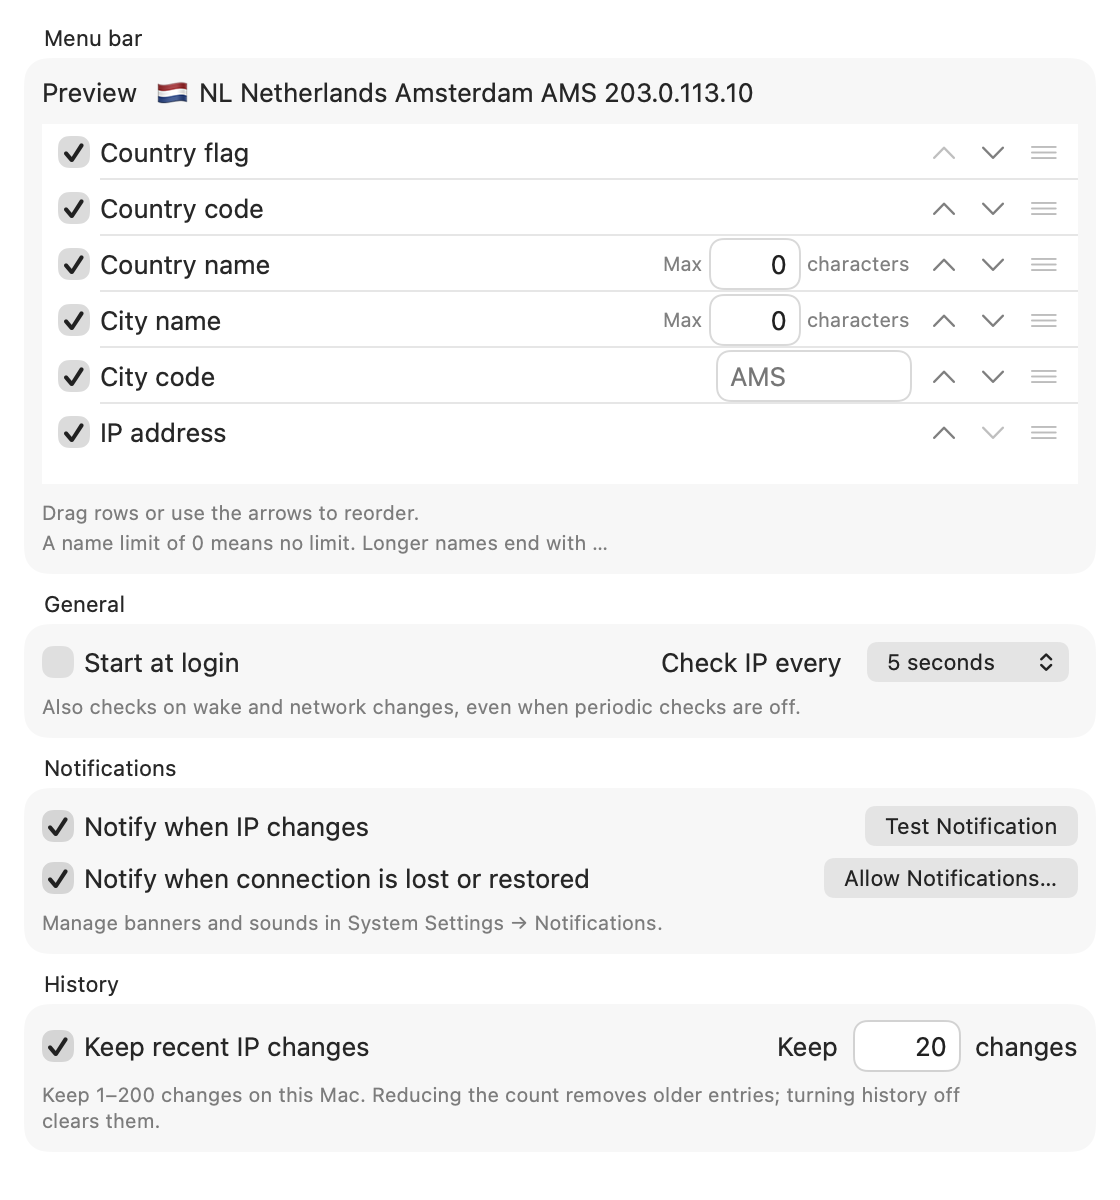
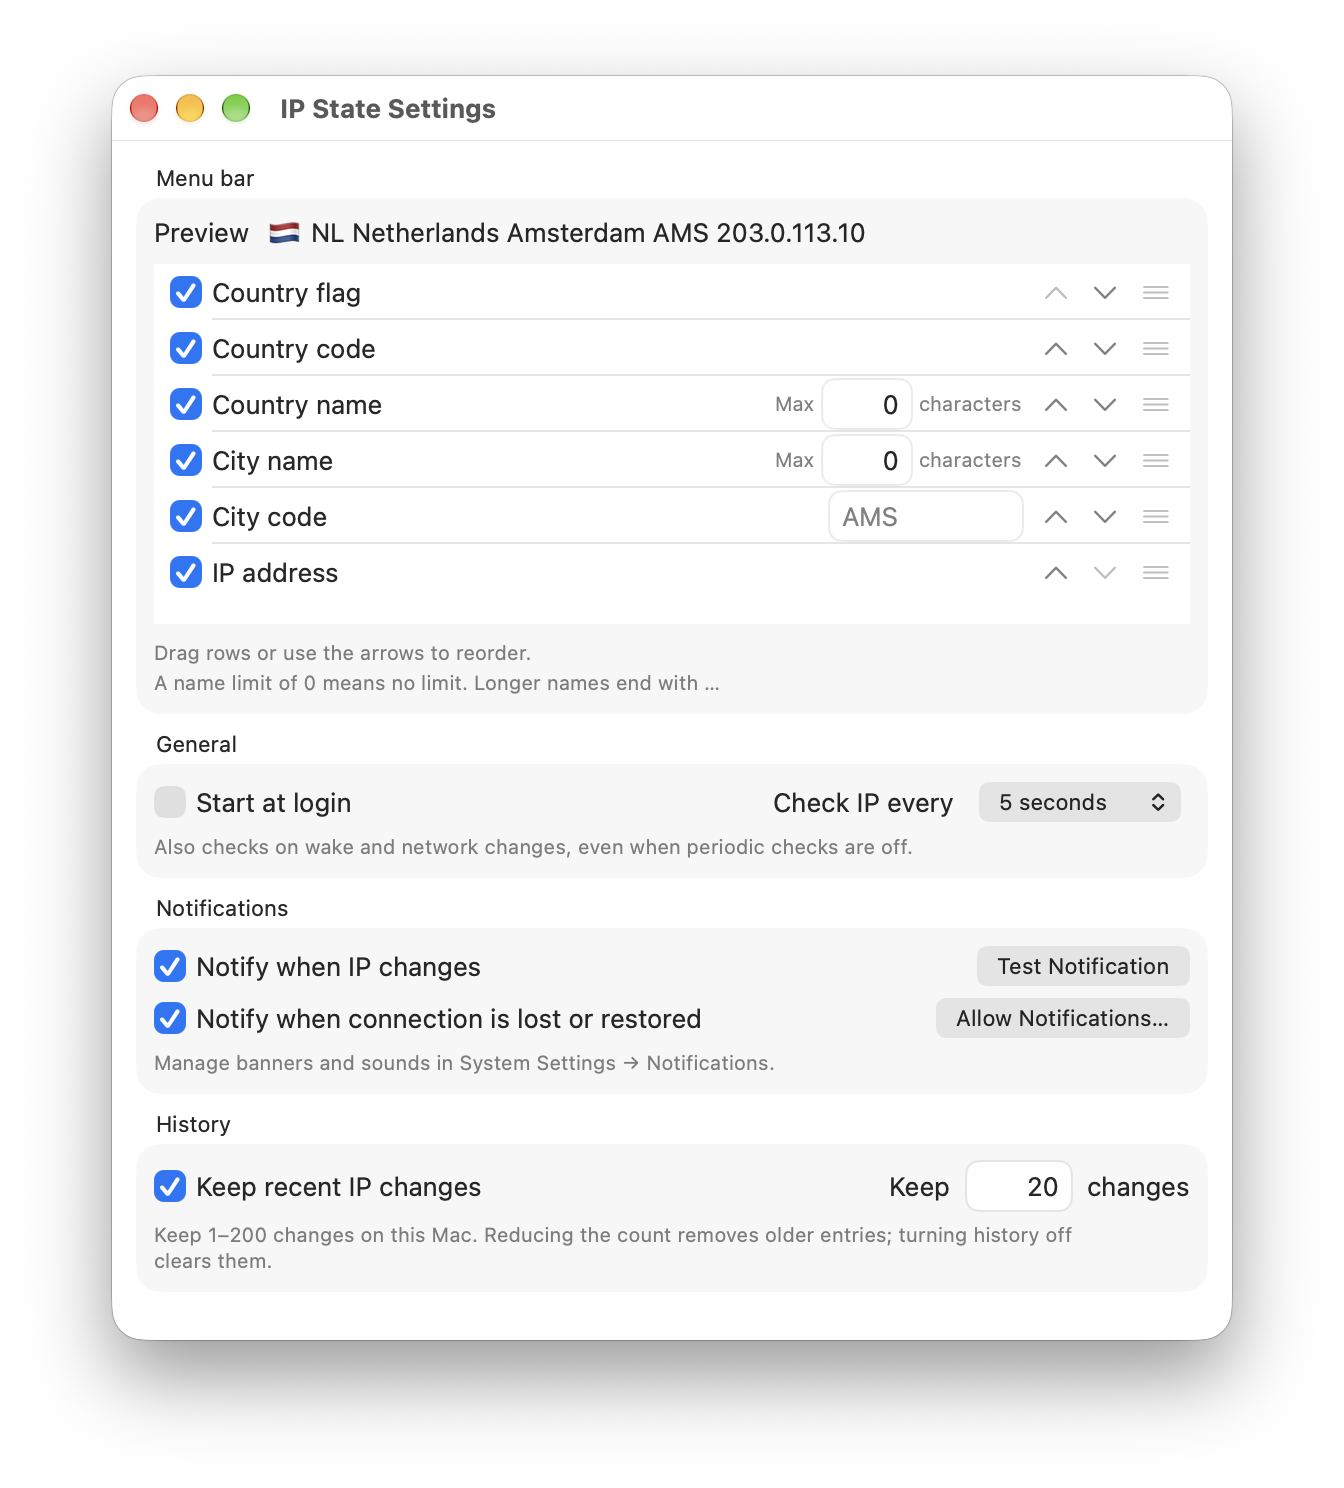
📸 docs: capture settings with native frame and transparent shadow

Changed region(s): [[0.0312, 0.0308, 0.9688, 0.9558], [0.625, 0.7708, 0.8125, 0.8325]]

diff --git a/README.md b/README.md
@@ -22,7 +22,7 @@ Get a notification when your public IP changes.
 - Remember recent IP locations across restarts, with automatic refresh and expiry.
 
 <p align="center">
-  <img src="docs/images/settings.png" width="560" alt="IP State settings with configurable menu bar items, checks, notifications, and history">
+  <img src="docs/images/settings.png" width="672" alt="IP State settings with configurable menu bar items, checks, notifications, and history">
 </p>
 
 *Settings preview uses illustrative location data and example IP addresses.*
